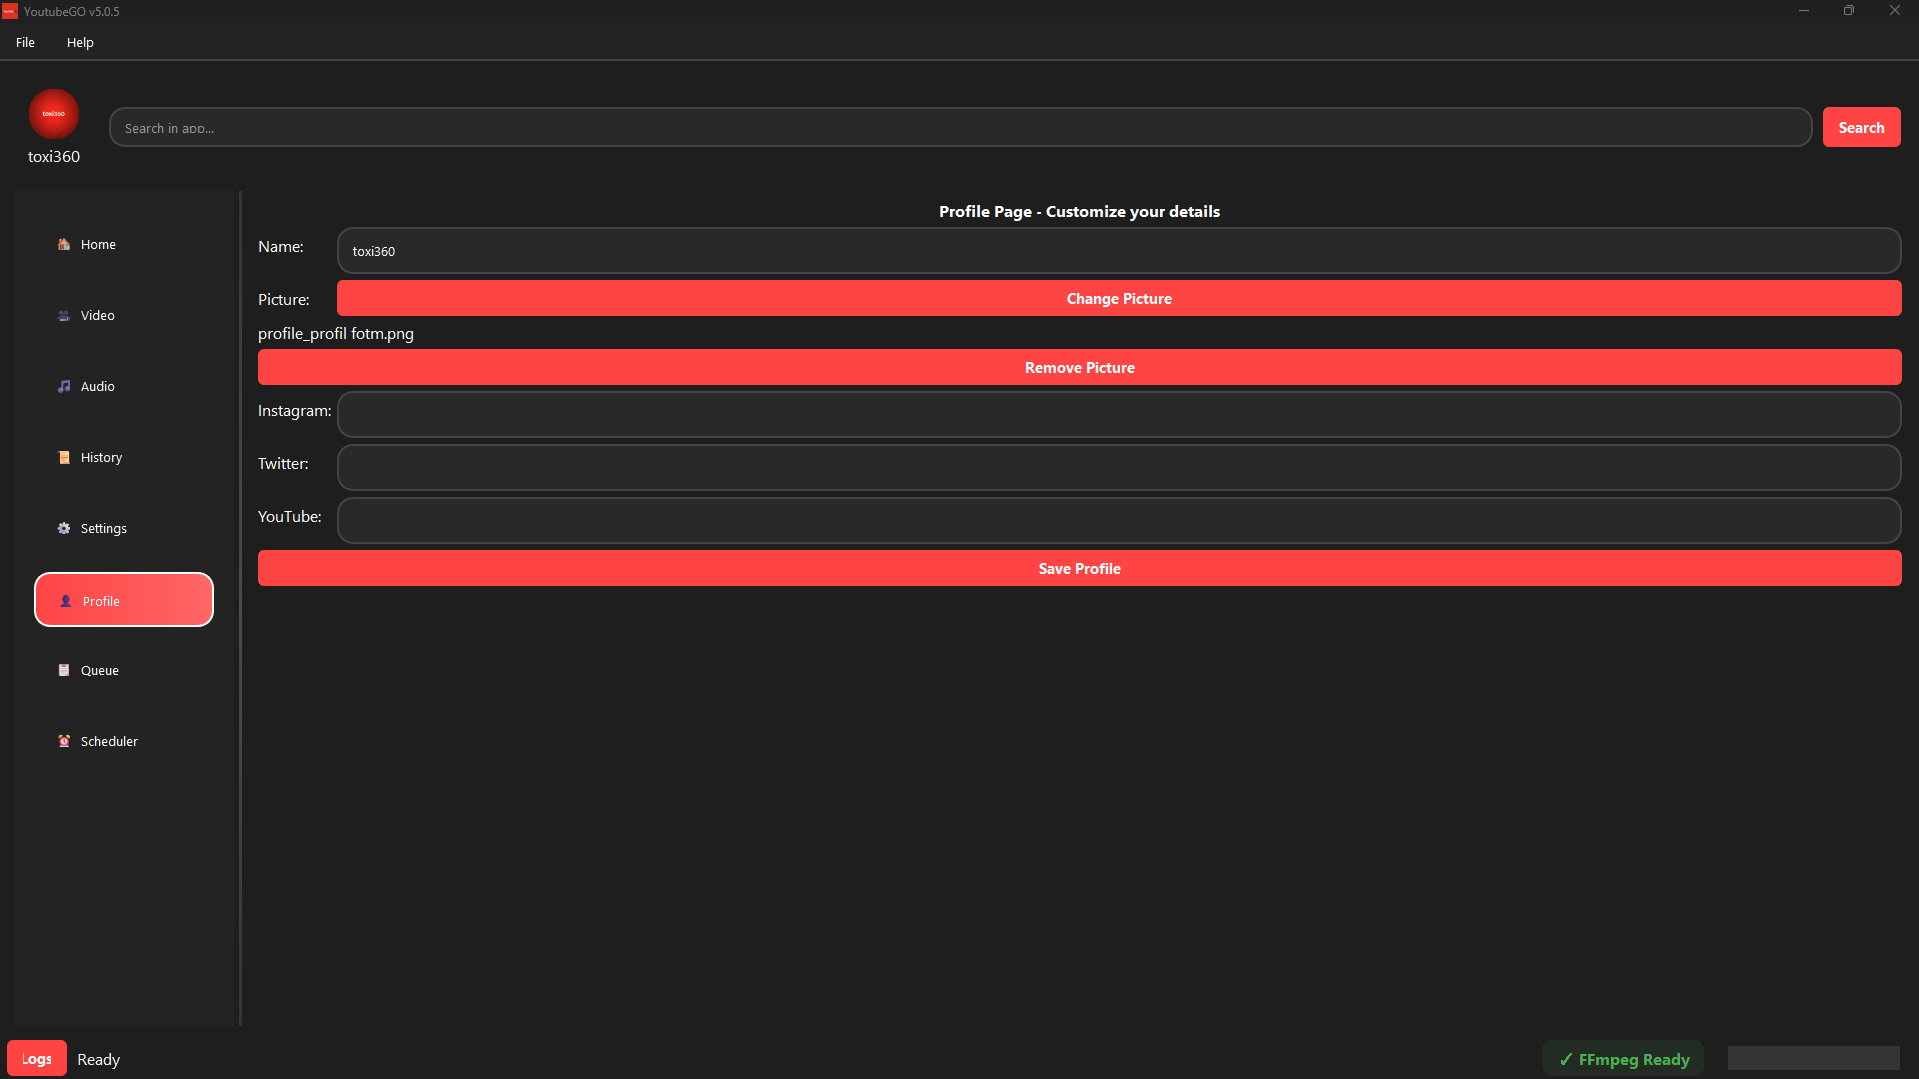
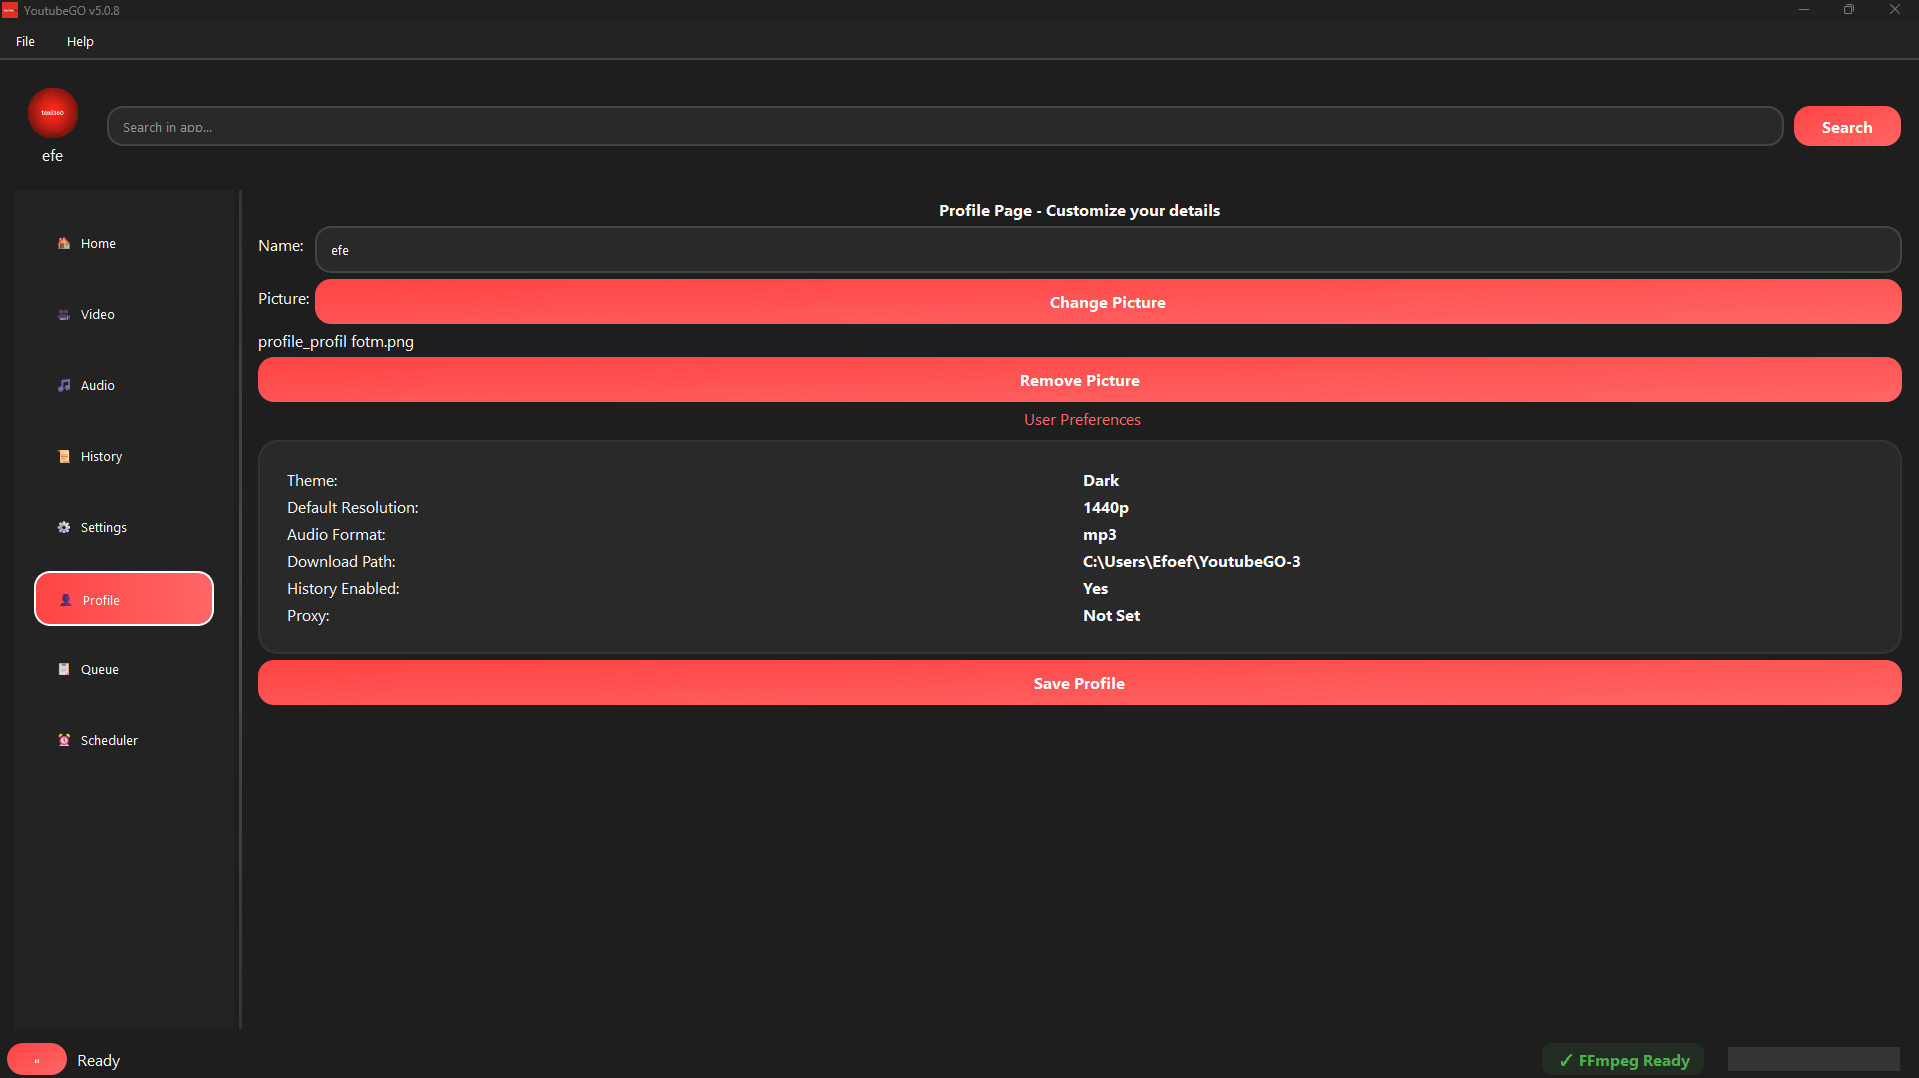
feat(ui): Interface improvements
-All Buttons Will Now Look More Rounded and Modern.(With QSS)

-At startup, the Logs section will now be closed and can be opened from the button in the bottom left corner.

diff --git a/ui/components/log_dock.py b/ui/components/log_dock.py
@@ -8,7 +8,7 @@ class LogDockManager:
         self.main_window = main_window
         self.log_dock = None
         self.log_text_edit = None
-        self.log_dock_visible = True
+        self.log_dock_visible = False
         self.init_log_dock()
 
     def init_log_dock(self):
@@ -17,6 +17,7 @@ class LogDockManager:
         self.log_text_edit.setReadOnly(True)
         self.log_dock.setWidget(self.log_text_edit)
         self.main_window.addDockWidget(Qt.BottomDockWidgetArea, self.log_dock)
+        self.log_dock.hide()
 
     def toggle_visibility(self):
         if self.log_dock_visible:
@@ -84,7 +85,6 @@ class LogDockManager:
         scrollbar = self.log_text_edit.verticalScrollBar()
         scrollbar.setValue(scrollbar.maximum())
 
-        
         if "[yt-dlp Error]" in text or ("error" in text.lower() and not text.startswith("[yt-dlp")):
             self.main_window.tray_manager.show_error_message(text)
         elif "playlist indexing in progress" in text.lower():

diff --git a/ui/components/animated_button.py b/ui/components/animated_button.py
@@ -5,24 +5,9 @@ from PySide6.QtGui import QColor
 class AnimatedButton(QPushButton):
     def __init__(self, text=""):
         super().__init__(text)
-        self.setStyleSheet("""
-            QPushButton {
-                background-color: #ff4444;
-                color: white;
-                border: none;
-                border-radius: 6px;
-                padding: 8px 16px;
-                font-weight: bold;
-                font-size: 11pt;
-            }
-            QPushButton:hover {
-                background-color: #ff6666;
-            }
-            QPushButton:pressed {
-                background-color: #cc3333;
-            }
-        """)
         self.setCursor(Qt.PointingHandCursor)
+        self.setMinimumWidth(80)
+        self.setMinimumHeight(32)
 
     def enterEvent(self, event):
         shadow = QGraphicsDropShadowEffect()

diff --git a/ui/main_window.py b/ui/main_window.py
@@ -85,7 +85,8 @@ class MainWindow(QMainWindow):
         self.status_label = self.status_bar_layout.status_label
         self.ffmpeg_label = self.status_bar_layout.ffmpeg_label
         self.show_logs_btn = self.status_bar_layout.show_logs_btn
-        
+        self.show_logs_btn.setText("Logs")
+        self.show_logs_btn.setVisible(True)
         
         if self.ffmpeg_found:
             self.ffmpeg_label.setText("✓ FFmpeg Ready")
